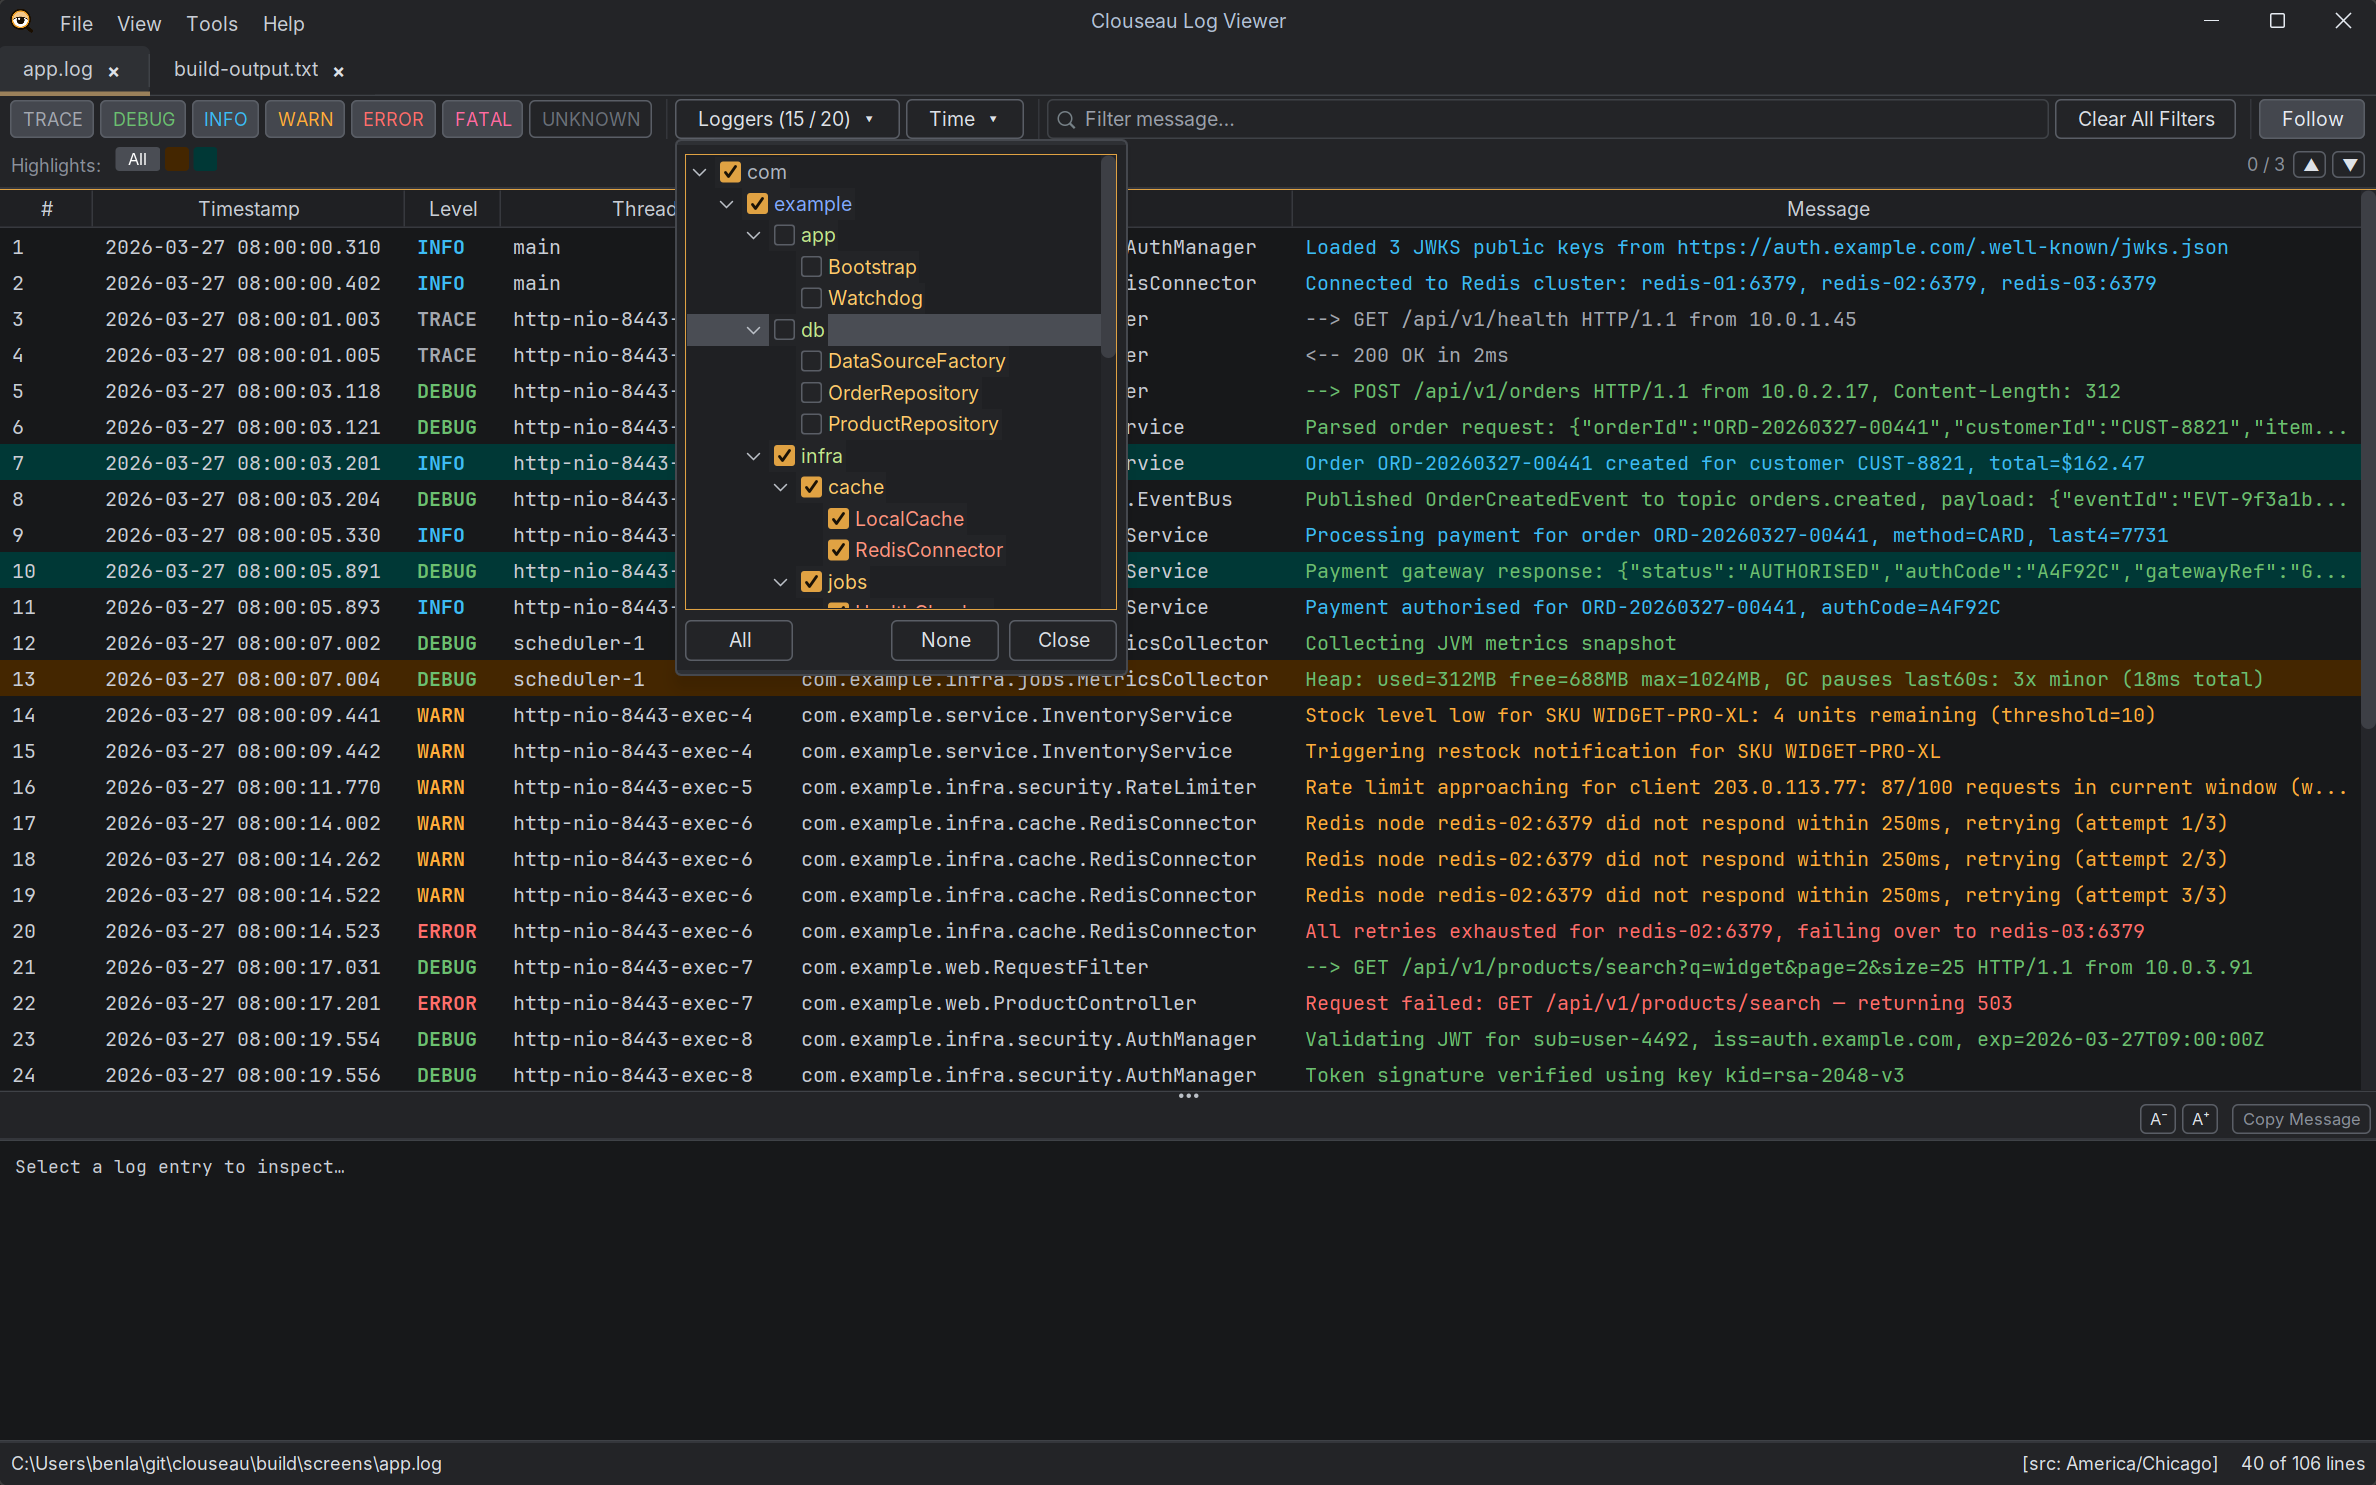
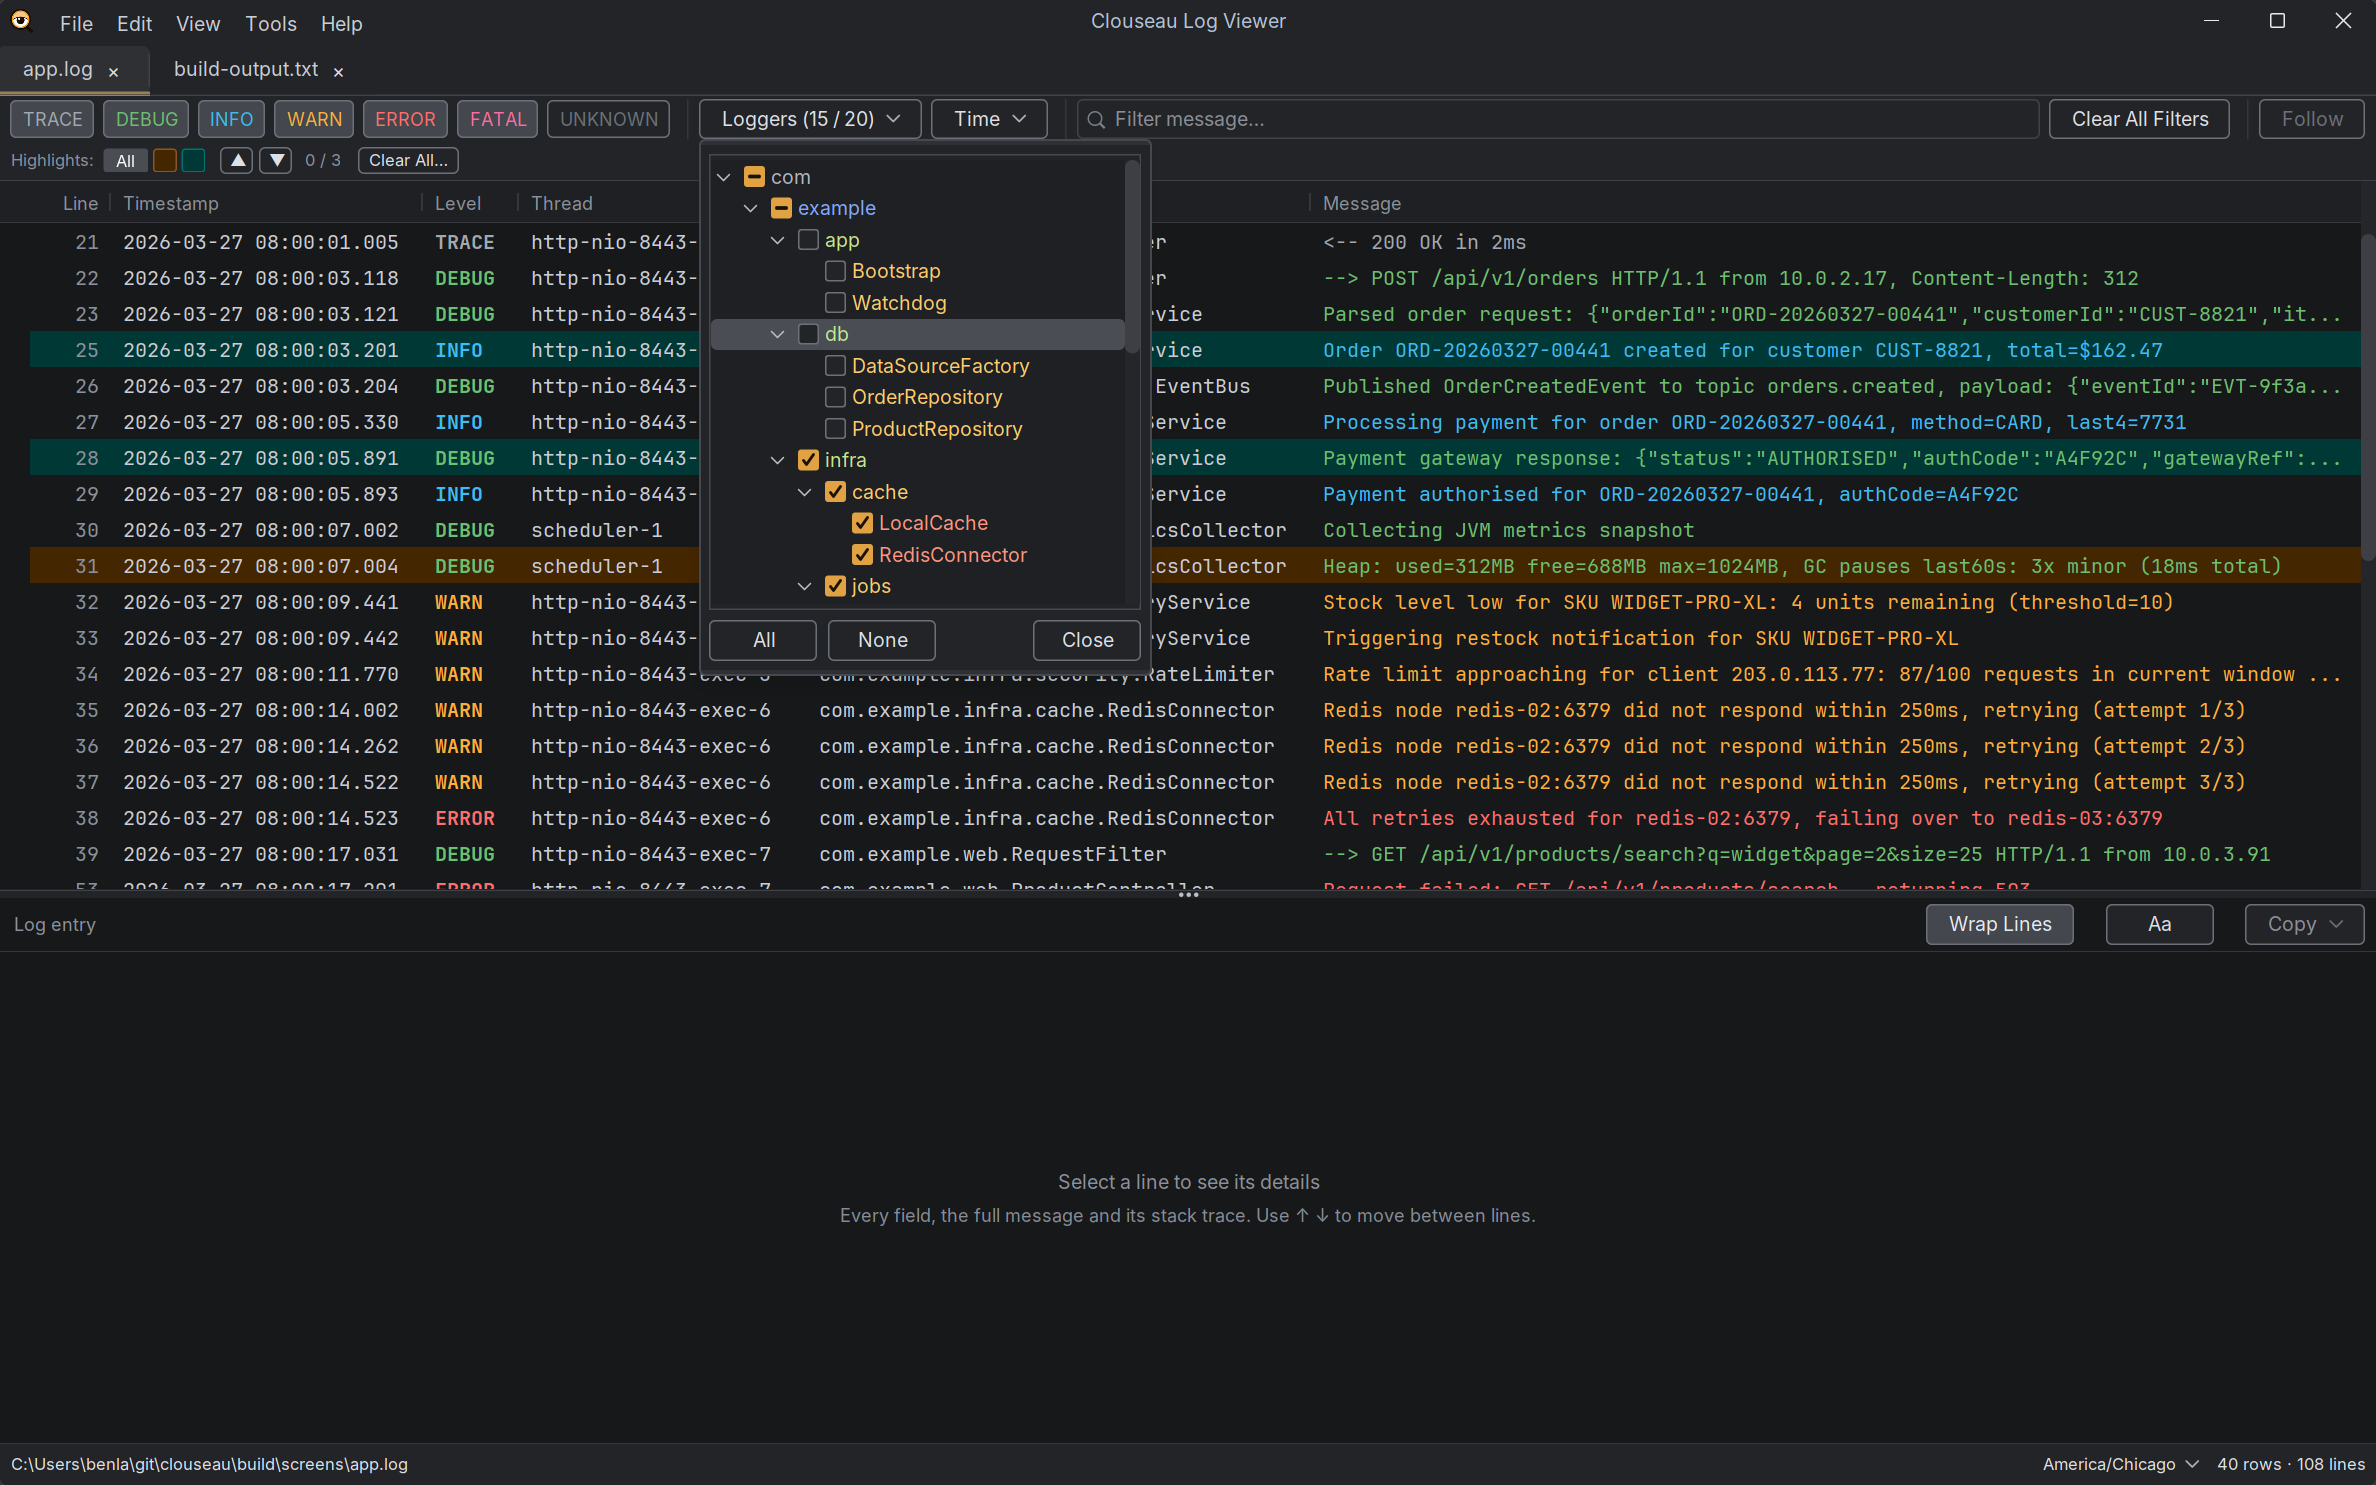
Retake the guide's screenshots and shorten the tagline
All seven screenshots predated the design system sync; they're retaken
from the current UI, and the social preview is redrawn from the new main
view.

ScreenshotTool typed the parser editor's sample line into the parser
list's new search field, the first empty field it found. It now picks the
first empty field right of the list.

The README and social preview tagline drops "who investigate logs for a
living": "A fast, modern desktop log viewer for engineers."

diff --git a/clouseau-ui/src/test/java/com/droidenx/clouseau/ui/ScreenshotTool.java b/clouseau-ui/src/test/java/com/droidenx/clouseau/ui/ScreenshotTool.java
@@ -169,12 +169,18 @@ public final class ScreenshotTool {
         });
         settle(500);
         onEdt(() -> {
-            // The Test section's sample line: the first empty single-line field.
+            // The Test section's sample line: the first empty single-line field right of the
+            // parser list (the list's own search field is empty too).
+            @SuppressWarnings("unchecked")
+            JList<Object> list = find(dialog, JList.class, l -> true);
+            int formLeft = list.getLocationOnScreen().x + list.getWidth();
             JTextField sample = find(dialog, JTextField.class,
-                    t -> t.isShowing() && t.isEditable() && t.getText().isEmpty());
+                    t -> t.isShowing() && t.isEditable() && t.getText().isEmpty()
+                            && t.getLocationOnScreen().x > formLeft);
             sample.setText("2026-03-27 08:15:02.480 INFO --- [gw-eu-1] [edge-router-7] [io-worker-2] "
                     + "com.example.edge.Forwarder - Forwarded 128 bytes to 10.0.4.22:51234");
             sample.setCaretPosition(0);
+            sample.requestFocusInWindow();
             return null;
         });
         settle(800);

diff --git a/clouseau-ui/src/test/java/com/droidenx/clouseau/ui/SocialPreviewTool.java b/clouseau-ui/src/test/java/com/droidenx/clouseau/ui/SocialPreviewTool.java
@@ -27,7 +27,7 @@ public final class SocialPreviewTool {
     static final String NAME = "Clouseau";
     /** The README's pitch, broken where it reads well at this size. */
     static final String[] TAGLINE = {
-            "A fast, modern desktop", "log viewer for engineers", "who investigate logs", "for a living." };
+            "A fast, modern desktop", "log viewer for engineers." };
     static final String FOOTNOTE = "Free & open source  ·  Windows  ·  macOS  ·  Linux";
 
     private static final Color AMBER = new Color(0xE0A243);

diff --git a/README.md b/README.md
@@ -1,6 +1,6 @@
 # Clouseau Log Viewer
 
-**A fast, modern desktop log viewer for engineers who investigate logs for a living.**
+**A fast, modern desktop log viewer for engineers.**
 
 Open logs of any size, merge the logs of several services into one timeline, filter in milliseconds, and hand your annotated findings to a colleague in one file. Free and open source, for Windows, macOS and Linux.
 
